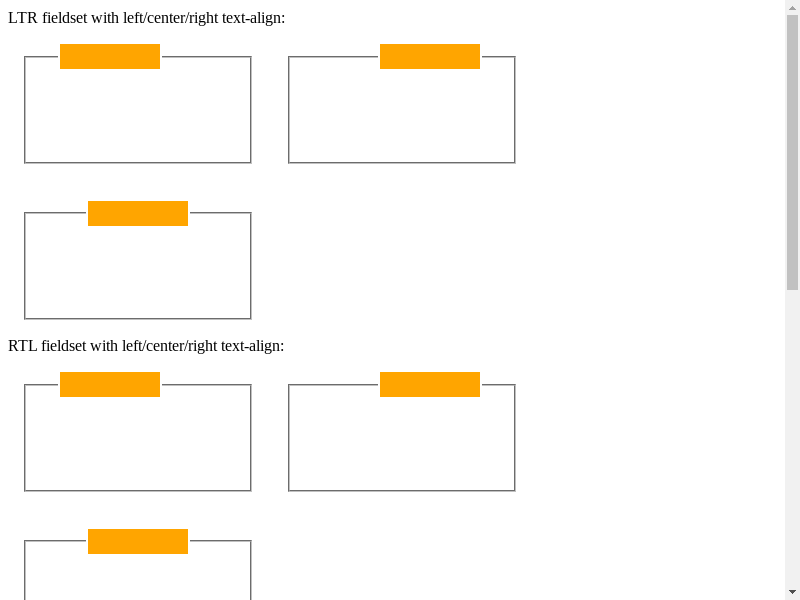
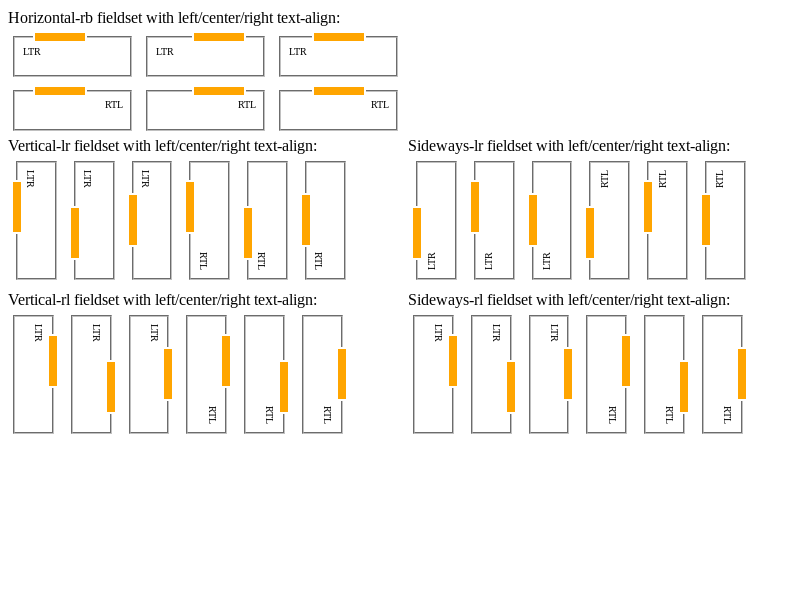
sideways: Improve test coverage of vertical fieldsets
This CL updates fieldsets.html so that it covers vertical-rl,
sideways-rl, and sideways-lr writing-modes.

This CL has no behavior changes.

Bug: 40501131
Commit-Queue: Koji Ishii <kojii@chromium.org>
Auto-Submit: Kent Tamura <tkent@chromium.org>
Cr-Commit-Position: refs/heads/main@{#1349037}

diff --git a/web_tests/fast/writing-mode/fieldsets.html b/web_tests/fast/writing-mode/fieldsets.html
@@ -3,81 +3,160 @@
 <style>
 fieldset
 {
-    inline-size:200px;
-    block-size:100px;
-    margin:1em;
+    inline-size:100px;
+    block-size:30px;
+    margin:0.5em;
     display:inline-block;
+    font-size: 10px;
 }
 
 div
 {
-    inline-size:100px;
-    block-size:25px;
+    inline-size:50px;
+    block-size:8px;
     background-color:orange;
 }
 
 </style>
 </head>
 
-LTR fieldset with left/center/right text-align: <br>
+Horizontal-rb fieldset with left/center/right text-align: <br>
 
 <fieldset>
-<legend style="text-align:left; margin-left:20px"><div></div></legend>
-</fieldset>
+<legend style="text-align:left; margin-left:10px"><div></div></legend>
+LTR</fieldset>
 
 <fieldset>
-<legend style="text-align:right; margin-right:20px"><div></div></legend>
-</fieldset>
+<legend style="text-align:right; margin-right:10px"><div></div></legend>
+LTR</fieldset>
 
 <fieldset>
 <legend style="text-align:center;"><div></div></legend>
-</fieldset>
+LTR</fieldset>
 
 <br>
 
-RTL fieldset with left/center/right text-align: <br>
+<fieldset dir=rtl>
+<legend style="text-align:left; margin-left:10px"><div></div></legend>
+RTL</fieldset>
 
 <fieldset dir=rtl>
-<legend style="text-align:left; margin-left:20px"><div></div></legend>
-</fieldset>
-
-<fieldset dir=rtl>
-<legend style="text-align:right; margin-right:20px"><div></div></legend>
-</fieldset>
+<legend style="text-align:right; margin-right:10px"><div></div></legend>
+RTL</fieldset>
 
 <fieldset dir=rtl>
 <legend style="text-align:center;"><div></div></legend>
-</fieldset>
+RTL</fieldset>
 
-<br>
+<span style="display:block; column-count:2">
 
-Vertical LTR fieldset with left/center/right text-align: <br>
-
-<fieldset style="-webkit-writing-mode:vertical-lr">
-<legend style="text-align:left; margin-top:20px"><div></div></legend>
-</fieldset>
+Vertical-lr fieldset with left/center/right text-align: <br>
 
 <fieldset style="-webkit-writing-mode:vertical-lr">
-<legend style="text-align:right; margin-bottom:20px"><div></div></legend>
-</fieldset>
+<legend style="text-align:left; margin-top:10px"><div></div></legend>
+LTR</fieldset>
+
+<fieldset style="-webkit-writing-mode:vertical-lr">
+<legend style="text-align:right; margin-bottom:10px"><div></div></legend>
+LTR</fieldset>
 
 <fieldset style="-webkit-writing-mode:vertical-lr">
 <legend style="text-align:center"><div></div></legend>
-</fieldset>
-
-
-<br>
-
-Vertical RTL fieldset with left/center/right text-align: <br>
+LTR</fieldset>
 
 <fieldset dir=rtl style="-webkit-writing-mode:vertical-lr">
-<legend style="text-align:left; margin-top:20px"><div></div></legend>
-</fieldset>
+<legend style="text-align:left; margin-top:10px"><div></div></legend>
+RTL</fieldset>
 
 <fieldset dir=rtl style="-webkit-writing-mode:vertical-lr">
-<legend style="text-align:right; margin-bottom:20px"><div></div></legend>
-</fieldset>
+<legend style="text-align:right; margin-bottom:10px"><div></div></legend>
+RTL</fieldset>
 
 <fieldset dir=rtl style="-webkit-writing-mode:vertical-lr">
 <legend style="text-align:center"><div></div></legend>
-</fieldset>
+RTL</fieldset>
+
+
+<br>
+Vertical-rl fieldset with left/center/right text-align: <br>
+<fieldset style="writing-mode:vertical-rl">
+<legend style="text-align:left; margin-top:10px"><div></div></legend>
+LTR</fieldset>
+
+<fieldset style="writing-mode:vertical-rl">
+<legend style="text-align:right; margin-bottom:10px"><div></div></legend>
+LTR</fieldset>
+
+<fieldset style="writing-mode:vertical-rl">
+<legend style="text-align:center"><div></div></legend>
+LTR</fieldset>
+
+<fieldset dir=rtl style="writing-mode:vertical-rl">
+<legend style="text-align:left; margin-top:10px"><div></div></legend>
+RTL</fieldset>
+
+<fieldset dir=rtl style="writing-mode:vertical-rl">
+<legend style="text-align:right; margin-bottom:10px"><div></div></legend>
+RTL</fieldset>
+
+<fieldset dir=rtl style="writing-mode:vertical-rl">
+<legend style="text-align:center"><div></div></legend>
+RTL</fieldset>
+
+<br>
+
+Sideways-lr fieldset with left/center/right text-align: <br>
+
+<fieldset style="writing-mode:sideways-lr">
+<legend style="text-align:left; margin-bottom:10px"><div></div></legend>
+LTR</fieldset>
+
+<fieldset style="writing-mode:sideways-lr">
+<legend style="text-align:right; margin-top:10px"><div></div></legend>
+LTR</fieldset>
+
+<fieldset style="writing-mode:sideways-lr">
+<legend style="text-align:center"><div></div></legend>
+LTR</fieldset>
+
+<fieldset dir=rtl style="writing-mode:sideways-lr">
+<legend style="text-align:left; margin-bottom:10px"><div></div></legend>
+RTL</fieldset>
+
+<fieldset dir=rtl style="writing-mode:sideways-lr">
+<legend style="text-align:right; margin-top:10px"><div></div></legend>
+RTL</fieldset>
+
+<fieldset dir=rtl style="writing-mode:sideways-lr">
+<legend style="text-align:center"><div></div></legend>
+RTL</fieldset>
+
+
+<br>
+Sideways-rl fieldset with left/center/right text-align: <br>
+<fieldset style="writing-mode:sideways-rl">
+<legend style="text-align:left; margin-top:10px"><div></div></legend>
+LTR</fieldset>
+
+<fieldset style="writing-mode:sideways-rl">
+<legend style="text-align:right; margin-bottom:10px"><div></div></legend>
+LTR</fieldset>
+
+<fieldset style="writing-mode:sideways-rl">
+<legend style="text-align:center"><div></div></legend>
+LTR</fieldset>
+
+<fieldset dir=rtl style="writing-mode:sideways-rl">
+<legend style="text-align:left; margin-top:10px"><div></div></legend>
+RTL</fieldset>
+
+<fieldset dir=rtl style="writing-mode:sideways-rl">
+<legend style="text-align:right; margin-bottom:10px"><div></div></legend>
+RTL</fieldset>
+
+<fieldset dir=rtl style="writing-mode:sideways-rl">
+<legend style="text-align:center"><div></div></legend>
+RTL</fieldset>
+
+
+</span>
